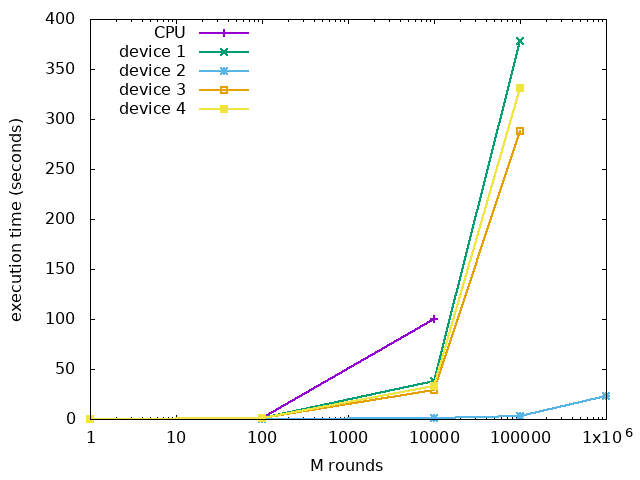
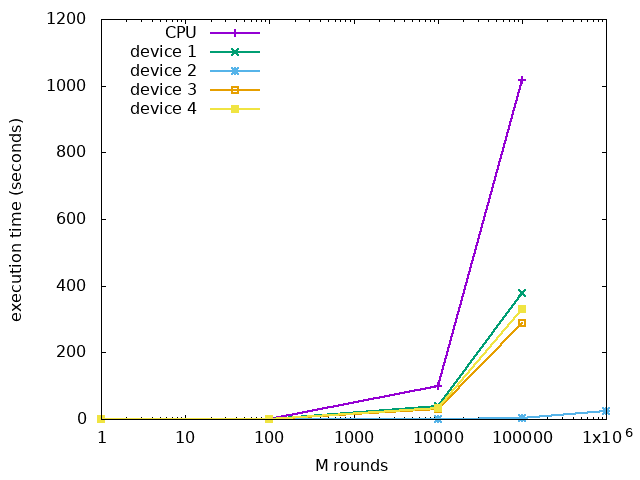
update report & results

diff --git a/hw2/parameters.h b/hw2/parameters.h
@@ -2,7 +2,7 @@
 #define PARAMETERS_H
 
 const int N = 1000; // NxN space
-const int M = 100000; // M rounds
+const int M = 1000000; // M rounds
 
 const int gridNum = 10;
 const int blockNum = 10;

diff --git a/hw2/Report.md b/hw2/Report.md
@@ -10,7 +10,7 @@
 
 ## 檔案說明
 
-* readme.txt: 本檔案，使用 Markdown 語法
+* readme.txt: 內容同本檔案，使用 Markdown 語法
 * main.cu: 包含 main function、設定初始值、顯示結果等
 * host.h: 使用 CPU 順序得運算，用於和 GPU 版本程式比較速度
 * device1.cu: 使用 GPU 平行運算的版本，不同切割方式的說明見下面的小節
@@ -43,7 +43,7 @@ $ nvcc main.cu device3.cu
 $ nvcc main.cu device4.cu
 ```
 
-不論哪一種都會產生 `a.out` 檔案，透過下面指令執行並印出結果。
+不論哪一種都會產生 `a.out` 檔案，透過下面指令執行。
 
 ```bash
 $ ./a.out
@@ -82,7 +82,7 @@ $ ./a.out
 
 我嘗試比較以不同切割方式實做和跑 M 個回合時所花的時間。
 
-下表的時間是用 Linux 指令 `time` 所顯示之 total 時間 (`time ./a.out`)，單位都是「秒」。方格大小設為 1000x1000，每個 grid 所含 block 數量和每個 block 所含 thread 數量都是 10。表中 N/A 表示計算時間過久 (超過 5 分鐘)，
+下表的時間是用 Linux 指令 `time` 所顯示之 total 時間 (`time ./a.out`)，單位都是「秒」。方格大小設為 1000x1000，每個 grid 所含 block 數量和每個 block 所含 thread 數量都是 10。表中 N/A 表示計算時間過久 (超過 10 分鐘)，
 
 | M rounds |  CPU   | device1 | device2 | device3 | device4 |
 | :------: | :----: | :-----: | :-----: | :-----: | :-----: |
@@ -94,7 +94,7 @@ $ ./a.out
 
 <img src="statistic.png" alt="statistic" style="zoom:75%;" />
 
-從上表和圖我歸納出幾個結論:
+從上表和圖我歸納出幾點:
 
 * 當計算量不大時 (M 很小時)，CPU 計算所花的總時間比使用 GPU 還短，這可能是因為 CPU 單一運算能力原本就比 GPU 強，而且從 host 複製記憶體到 device 再搬移回來也需要時間。
 * 但當 M 逐漸變大時，GPU 的優勢便展現了，在這種計算密集的應用裡，使用 GPU 能大幅縮短運算時間。
